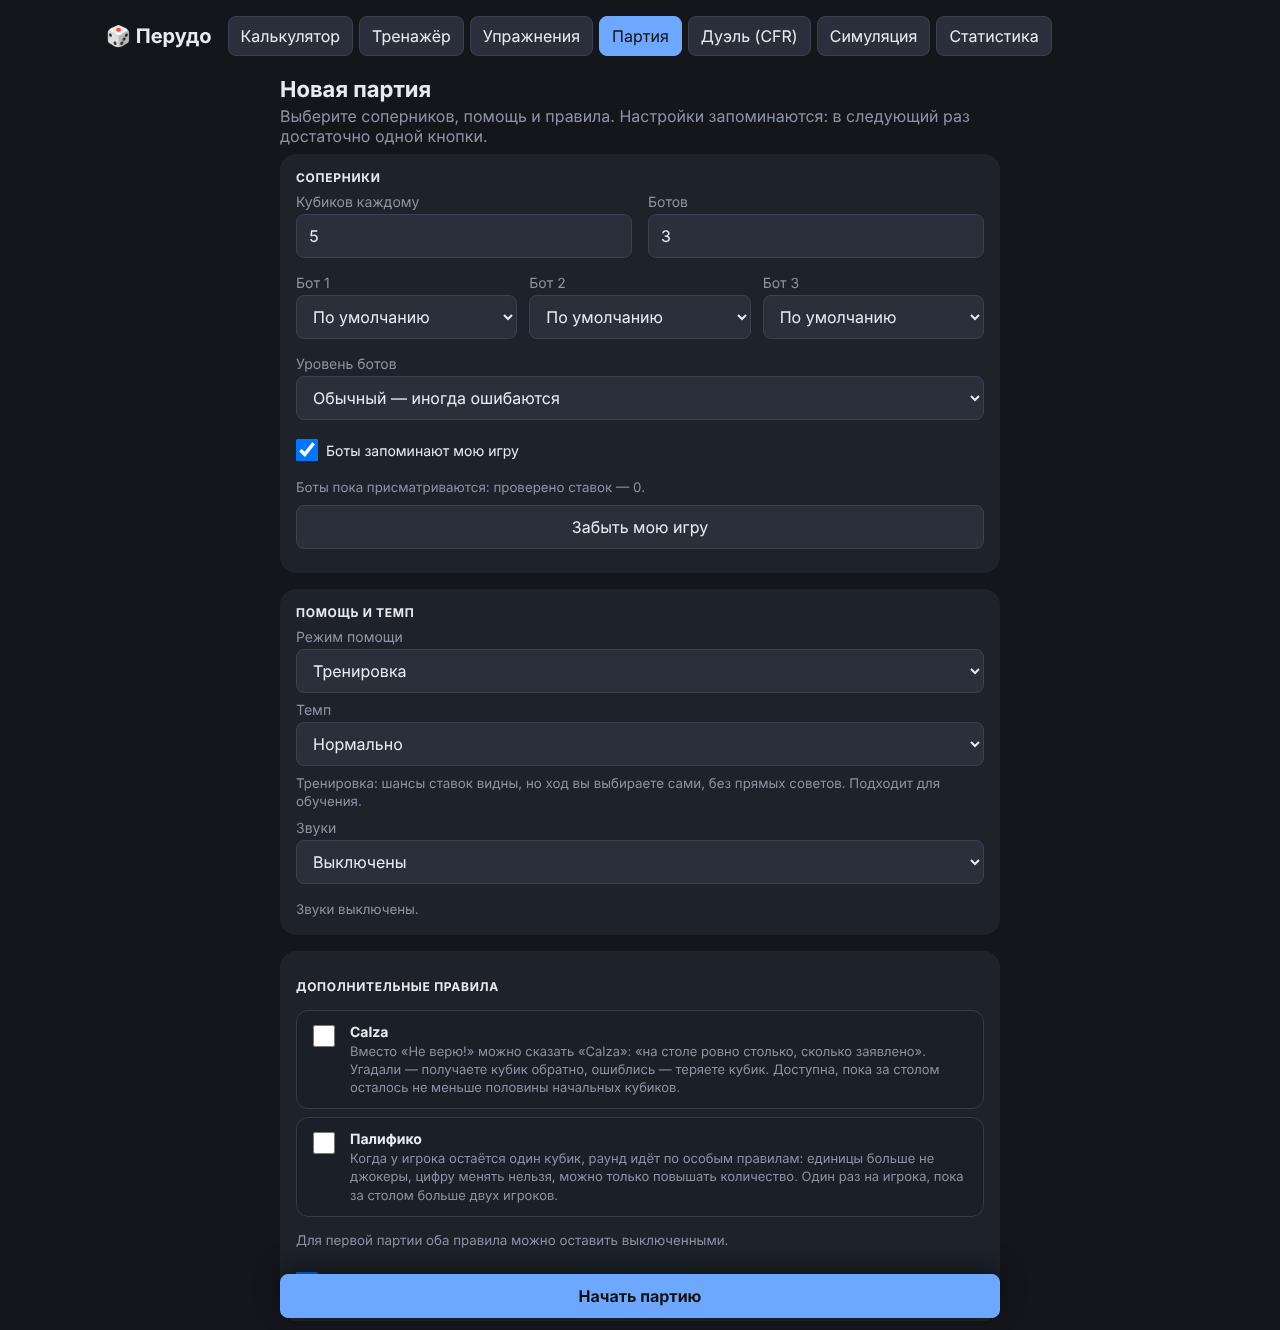
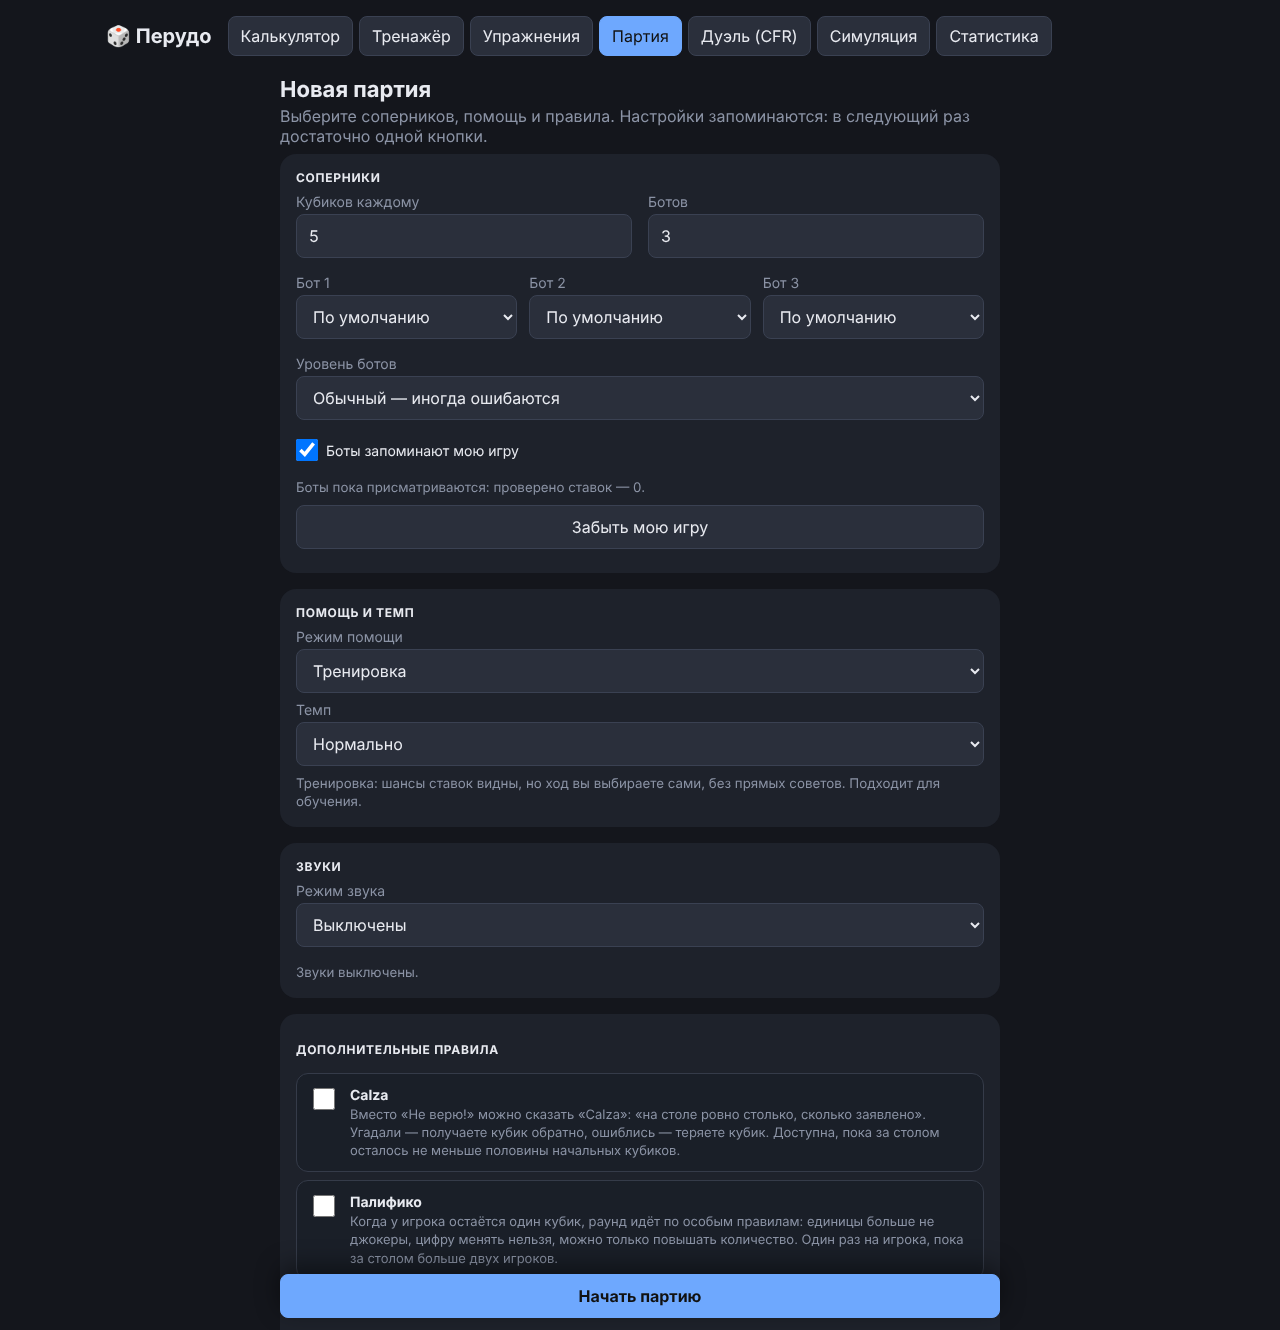
Звуки: отдельная карточка в настройках партии, версия 2.7.1

Changed region(s): [[0.2188, 0.6165, 0.7812, 0.9556]]

diff --git a/index.html b/index.html
@@ -481,9 +481,12 @@
               </div>
 
               <small id="gAssistHelp" class="game-settings-help"></small>
+              </section>
 
+              <section class="setup-card" aria-labelledby="gSoundLabel">
+              <h3 class="set-label" id="gSoundLabel">Звуки</h3>
               <div class="field-row">
-                <label class="field">Звуки
+                <label class="field">Режим звука
                   <select id="gSound">
                     <option value="off" selected>Выключены</option>
                     <option value="quiet">Тихо</option>

diff --git a/tests/test_layout.py b/tests/test_layout.py
@@ -778,6 +778,10 @@ class LayoutTest(unittest.TestCase):
                 page.goto(self.url)
                 self.goto_tab(page, "game")
                 sel = page.locator("#gSound")
+                card = page.locator(".setup-card:has(#gSound)")
+                self.assertFalse(page.locator(".setup-card:has(#gSound):has(#gAssist)").count(),
+                                 "звуки должны быть в своей карточке, а не внутри «Помощь и темп»")
+                self.assertEqual(card.locator("h3.set-label").inner_text().strip().lower(), "звуки")
                 sel.scroll_into_view_if_needed()
                 self.assertFalse(page.locator("#gSoundTest").is_visible())
                 box = sel.bounding_box()

diff --git a/README.md b/README.md
@@ -164,7 +164,7 @@
 
 ### Первая партия за минуту
 
-1. Откройте вкладку **«Партия»**. Партия не начинается сама: вы видите экран подготовки с настройками в карточках (**Соперники**, **Помощь и темп**, **Дополнительные правила**). Стола и боковой панели до старта нет. Настройки последней начатой партии запоминаются, поэтому при следующем заходе (даже после перезагрузки страницы) всё уже выставлено. В карточке «Помощь и темп» можно включить **звуки** (выключены по умолчанию; «Тихо» или «Обычно»): сигнал вашего хода, «Не верю!», потеря кубика, конец партии. Звуки синтезируются в браузере, без файлов и вибрации; на быстром темпе ставки ботов и раздача не озвучиваются, а в фоновой вкладке звука нет. Подобрать свои звуки можно на странице `tools/sound_lab.html` (запуск: `npx serve .` или любой статический сервер, адрес `/tools/sound_lab.html`).
+1. Откройте вкладку **«Партия»**. Партия не начинается сама: вы видите экран подготовки с настройками в карточках (**Соперники**, **Помощь и темп**, **Дополнительные правила**). Стола и боковой панели до старта нет. Настройки последней начатой партии запоминаются, поэтому при следующем заходе (даже после перезагрузки страницы) всё уже выставлено. В отдельной карточке **«Звуки»** (под «Помощь и темп») можно включить **звуки** (выключены по умолчанию; «Тихо» или «Обычно»): сигнал вашего хода, «Не верю!», потеря кубика, конец партии. Звуки синтезируются в браузере, без файлов и вибрации; на быстром темпе ставки ботов и раздача не озвучиваются, а в фоновой вкладке звука нет. Подобрать свои звуки можно на странице `tools/sound_lab.html` (запуск: `npx serve .` или любой статический сервер, адрес `/tools/sound_lab.html`).
 2. Нажмите **«Начать партию»**: кнопка закреплена внизу экрана, прокручивать настройки до неё не нужно. После старта настройки остаются во вкладке ⚙ боковой панели.
 3. На своём ходу выберите **количество** кубиков кнопками **−** и **+** и **цифру** на гранях, затем нажмите **«Ставлю»**.
 4. Если считаете, что ставка соперника не сбудется, нажмите **«Не верю!»**.

diff --git a/CHANGELOG.md b/CHANGELOG.md
@@ -2,6 +2,11 @@
 
 Формат: [Keep a Changelog](https://keepachangelog.com/ru/1.1.0/), версии: [семантическое версионирование](https://semver.org/lang/ru/). В описаниях только то, что видно пользователю или влияет на работу; технические подробности смотрите в истории коммитов.
 
+## [2.7.1] — 2026-10-27
+
+### Изменено
+- Переключатель звуков вынесен в отдельную карточку «Звуки» на экране подготовки партии: раньше он стоял под подсказкой режима помощи и сливался с соседними полями.
+
 ## [2.7.0] — 2026-10-27
 
 ### Добавлено
